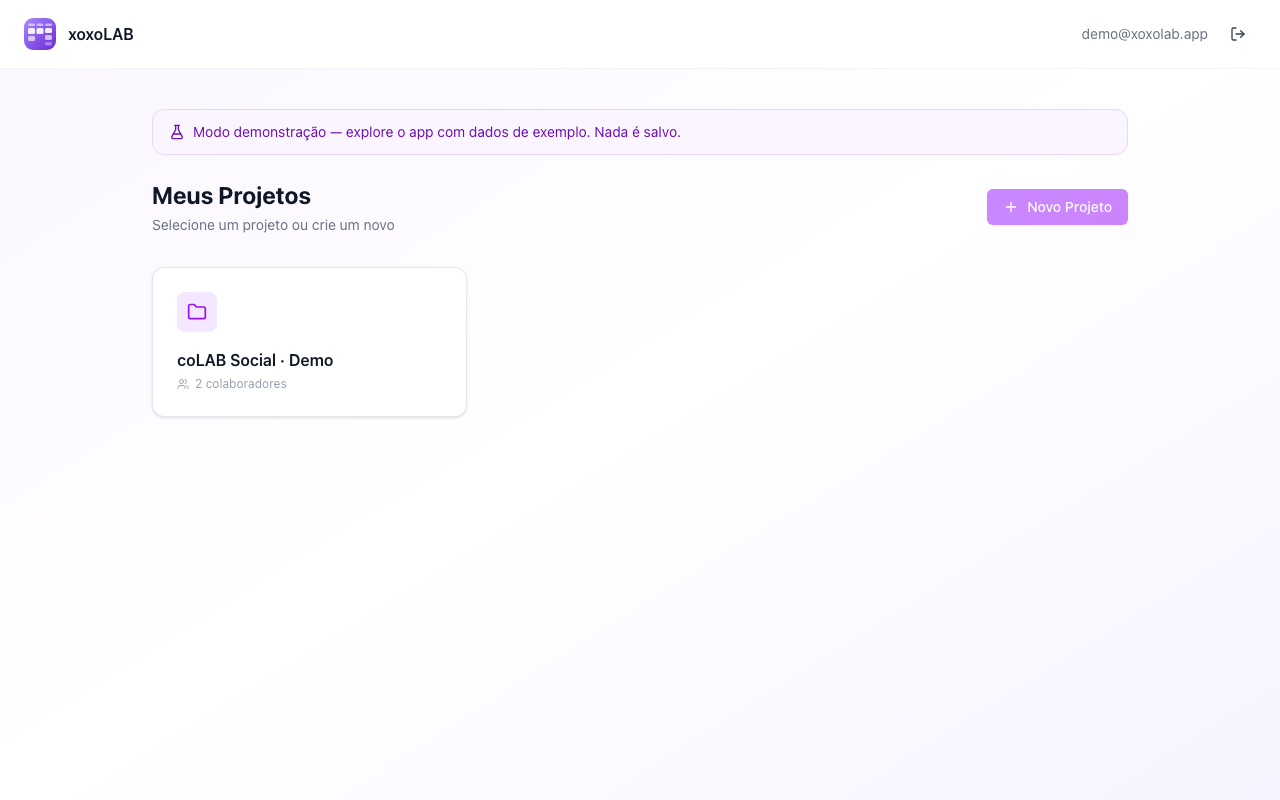
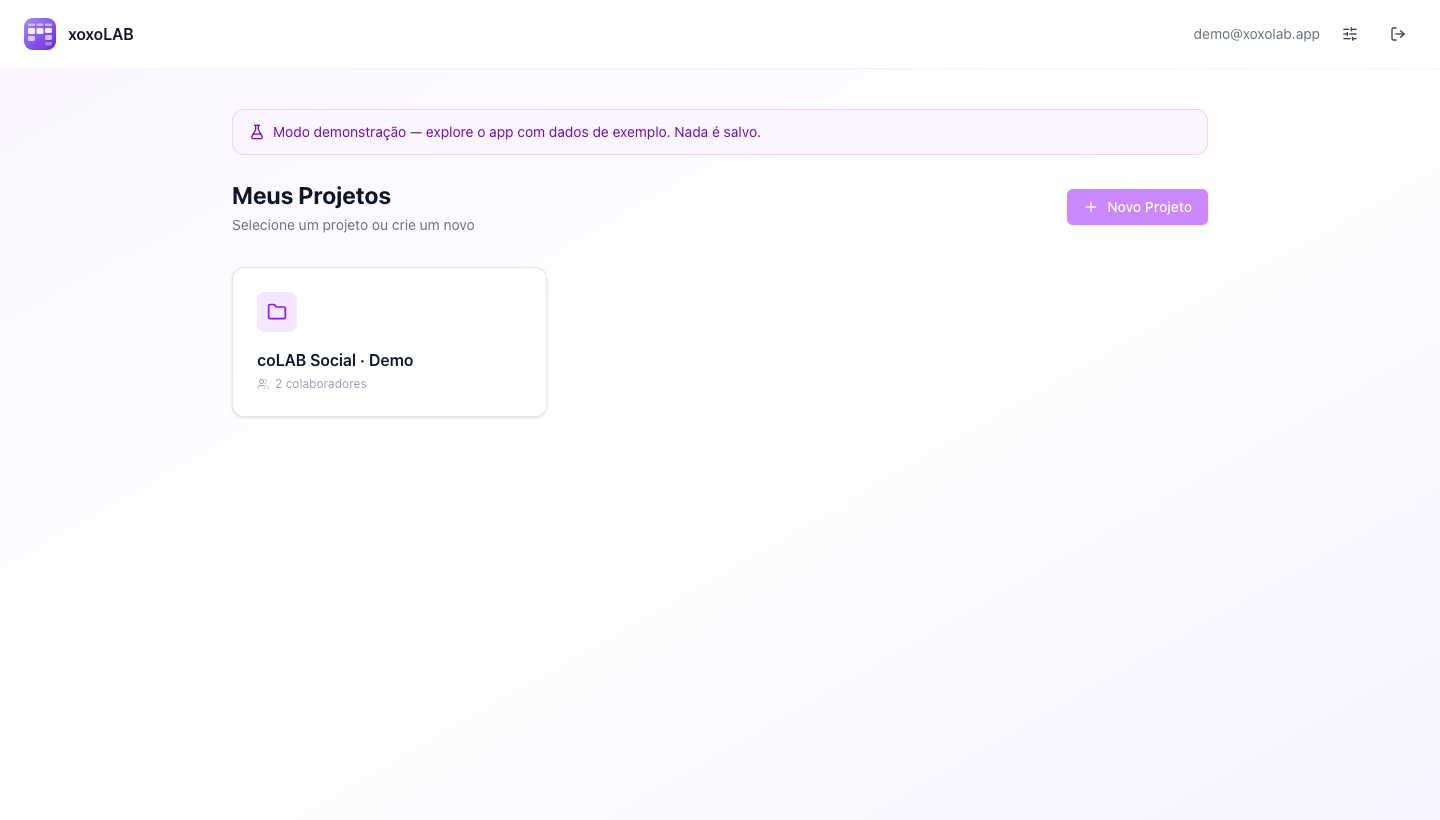
docs: update README and replace all screenshots
- Refresh all module screenshots with latest UI (demo mode)
- Add new screenshot 04-conteudos.png for the Conteúdos module
- Renumber screenshots: 04-conteudos, 05-kanban … 10-senhas
- Update README module descriptions to reflect:
  - Conteúdos: new roadmap-style table module between Pautas and Kanban
  - Pautas: now has forward-to-Conteúdos button
  - Kanban: new columns (Planejamento/Criação/Revisão/Agendamento/Publicação),
    auto-scheduling, drag-back from Publicação, media attachments, per-card download
  - Efemérides: ICS undo-import, Limpar tudo, persistent Google Calendar token
  - Recursos: authenticated download via GitHub API
  - Senhas: custom platform ("Outra…") support
- Update module count (8 → 9) in intro paragraph
- Update data structure tree to include conteudos/conteudos.yaml
- Update modules summary table

diff --git a/README.md b/README.md
@@ -2,7 +2,7 @@
 
 [![DOI](https://zenodo.org/badge/DOI/10.5281/zenodo.19305547.svg)](https://doi.org/10.5281/zenodo.19305547)
 
-O xoxoLAB é uma ferramenta web de gestão editorial colaborativa que reúne em uma única interface oito instrumentos de trabalho para equipes de comunicação e mídias sociais: quadro de avisos, pautas, kanban, efemérides, políticas, recursos, equipe e senhas, todos conectados por um sistema de @menções que notifica colaboradores em tempo real. Os dados são armazenados diretamente no repositório GitHub privado da própria equipe, sem servidor intermediário, e múltiplos projetos podem ser gerenciados simultaneamente por diferentes grupos de colaboradores, cada um com seu próprio espaço isolado de trabalho.
+O xoxoLAB é uma ferramenta web de gestão editorial colaborativa que reúne em uma única interface nove instrumentos de trabalho para equipes de comunicação e mídias sociais: quadro de avisos, pautas, conteúdos, kanban, efemérides, políticas, recursos, equipe e senhas, todos conectados por um sistema de @menções que notifica colaboradores em tempo real. Os dados são armazenados diretamente no repositório GitHub privado da própria equipe, sem servidor intermediário, e múltiplos projetos podem ser gerenciados simultaneamente por diferentes grupos de colaboradores, cada um com seu próprio espaço isolado de trabalho.
 
 <img src="screenshots/ombudsman-logo.png" alt="Desenvolvido por Viktor Chagas" align="right" width="100">O software foi desenvolvido por [Viktor Chagas](https://scholar.google.com/citations?user=F02DKoAAAAAJ&hl=en) e pelo [coLAB/UFF](http://colab-uff.github.io), com auxílio do Claude Code Sonnet 4.6 para as tarefas de programação. Os autores agradecem a Rafael Cardoso Sampaio pelos comentários e sugestões de adoção de ferramentas de IA, que levaram ao planejamento inicial da aplicação.
 
@@ -20,14 +20,14 @@ Toda a persistência de dados ocorre diretamente em um repositório GitHub priva
 
 ### 1. Gestão de Projetos
 
-O xoxoLAB permite gerenciar várias contas e projetos simultaneamente. Assim, equipes de produção de conteúdo para as mídias sociais podem gerenciar várias páginas e perfis em um único ambiente. Ao efetuar o login no software, é preciso indicar um email, que funcionará como nome de usuário. As equipes podem atribuir tarefas e notificar usuários por meio de um sistema de menções (@).
+O xoxoLAB permite gerenciar várias contas e projetos simultaneamente. Assim, equipes de produção de conteúdo para as mídias sociais podem gerenciar várias páginas e perfis em um único ambiente. Ao efetuar o login no software, é preciso indicar um email, que funcionará como nome de usuário. As equipes podem atribuir tarefas e notificar usuários por meio de um sistema de menções (@). Disponível também em **modo demonstração**, sem necessidade de conta GitHub.
 
 ![Login](screenshots/00-login.png)
 
 #### Como usar
 
 1. Acesse a aplicação
-2. Informe seu **email** e as demais credenciais de acesso
+2. Informe seu **email** e as demais credenciais de acesso (ou use o Modo demonstração)
 3. Crie ou acesse um projeto e convide colaboradores pelos seus emails
 
 Os dados ficam inteiramente no seu repositório GitHub privado.
@@ -49,7 +49,7 @@ Um quadro de recados colaborativo organizado como uma Matriz Eisenhower, para pr
 
 ### 3. Pautas
 
-Listas organizada por seções temáticas, com suporte a drag-and-drop. Utilize para definir ideias para pautas a serem elaboradas.
+Lista de ideias editoriais organizada por seções temáticas, com suporte a drag-and-drop. Cada pauta pode ser encaminhada diretamente para o módulo Conteúdos com um clique.
 
 ![Pautas](screenshots/03-pautas.png)
 
@@ -57,45 +57,62 @@ Listas organizada por seções temáticas, com suporte a drag-and-drop. Utilize 
 - Itens com título, corpo em Markdown, tags coloridas, data, responsável e @menções
 - Reordenação de itens por DnD dentro e entre seções
 - Quick-add por Enter direto na lista
-- Sincronização com Kanban: itens de Pauta aparecem automaticamente na coluna "Pautas" do Kanban
+- Botão **"Encaminhar para Conteúdos"** (ícone →) em cada item envia a pauta ao módulo Conteúdos
 - **Export**: PDF, Excel, CSV, Markdown
 
 
-### 4. Kanban
+### 4. Conteúdos
 
-Quadro de gestão de conteúdo por etapas com timeline visual. O Kanban de xoxoLAB possui 6 colunas (Pautas, Em Construção, Em Revisão, Aguardando Aprovação, Divulgação, e Finalizadas), sendo duas colunas ocultas por padrão (Pautas e Finalizadas). O módulo sincroniza automaticamente com as ideias inseridas no módulo de Lista de Pautas e com as datas inseridas no módulo Efemérides. Uma Linha do Tempo permite visualizar de forma abrangente os prazos e efemérides próximos.
+Visão geral de todos os conteúdos em produção, no formato de tabela estilo roadmap/bug tracker. Recebe pautas encaminhadas do módulo Pautas e envia itens concluídos automaticamente para o Kanban.
 
-![Kanban](screenshots/04-kanban.png)
+![Conteúdos](screenshots/04-conteudos.png)
 
-- **6 colunas**: Pautas · Em Construção · Em Revisão · Aguardando Aprovação · Divulgação · Finalizadas
-- Colunas "Pautas" e "Finalizadas" retráteis; demais sempre visíveis
-- Cards com: título, descrição Markdown, prioridade, plataformas de publicação, responsável, prazo, imagens/vídeos
-- Contorno `border-l-4` colorido pela plataforma primária do card
+- **Tabela editável inline** com as colunas: Descrição, Atribuição, Prazo, Tipo, Importância, Dependência, Progresso, Criado em
+- **Atribuição e Dependência**: seletor com autocompletar por @, exibe avatar colorido + nome do colaborador; dispara notificação por e-mail ao usuário marcado
+- **Tipos customizáveis**: o usuário define sua própria lista de tipos de conteúdo (Artigo, Resenha etc.) via "Gerenciar Tipos"
+- **Importância**: pílulas Urgente · Alta · Média · Baixa
+- **Progresso**: seletor cíclico clicável — Aguardando na Fila → Em Produção → Em Revisão → Aguardando Aprovação → Atrasado → Pronto
+- Ao marcar como **Pronto**, o item migra automaticamente para o Kanban (coluna Planejamento) e vai ao final da lista (ocultável); reverter o status remove o card do Kanban
+- Ordenação por qualquer coluna; padrão por data de criação
+
+
+### 5. Kanban
+
+Quadro de gestão de conteúdo por etapas com timeline visual. Recebe cards do módulo Conteúdos e organiza o fluxo editorial em cinco colunas. Sincroniza com Efemérides para exibir datas relevantes na linha do tempo.
+
+![Kanban](screenshots/05-kanban.png)
+
+- **5 colunas**: Planejamento · Criação · Revisão/Aprovação · Agendamento · Publicação (oculta por padrão)
+- Cards com: título, descrição Markdown, plataformas de publicação, responsável, revisor, previsão de publicação e data de agendamento
+- **Pendências automáticas**: pílula PENDENTE em Agendamento sem data; pílula PENDENTE em Revisão/Aprovação sem revisor
+- **Agendamento automático**: quando a data de agendamento é atingida, o card migra para Publicação; arrastar de Publicação de volta apaga a data de agendamento
+- Cards com imagens/vídeos anexados via drag-and-drop ou botão de upload; thumbnails exibidos no card e na interface de edição
 - Log de auditoria por card (ações timestampadas: criação, movimentação, atribuição, edição)
-- Botão de compartilhamento direto nas plataformas configuradas
-- **Timeline** acima do quadro: chips coloridos por plataforma, sincronizada com a largura do board, zoom in/out
-- **Export**: PDF da timeline (retrato), PNG/PDF/Excel/CSV/Markdown do board
+- **Download individual de card**: Markdown, DOCX ou ZIP (inclui mídia anexada); exporta apenas título e texto
+- **Timeline** acima do quadro: chips coloridos por plataforma, zoom in/out, sincronizada com a largura do board
+- **Export**: PNG/PDF/Excel/CSV/Markdown do board
 
 
-### 5. Efemérides
+### 6. Efemérides
 
-Calendário de eventos importantes, datas comemorativas e lembretes. O módulo pode importar eventos por meio de arquivos ICS (Google Calendar, Apple Calendar) ou sincronizar diretamente com a agenda online do Google Calendar.
+Calendário de eventos importantes, datas comemorativas e lembretes. Importa arquivos ICS ou sincroniza diretamente com o Google Calendar.
 
-![Efemérides](screenshots/05-efemerides.png)
+![Efemérides](screenshots/06-efemerides.png)
 
 - Grid mensal React puro (sem biblioteca de calendário externa), navegação por meses
 - Eventos manuais com recorrência: anual, mensal, semanal, sem recorrência
-- **Eventos sintéticos** (faded, não editáveis): itens de Pautas com prazo e cards de Kanban com prazo aparecem automaticamente no calendário
+- **Eventos sintéticos** (faded, não editáveis): cards de Kanban com prazo aparecem automaticamente no calendário
 - Lembretes automáticos por e-mail (EmailJS) com 7 e 1 dia de antecedência
-- **Import**: arquivos `.ics` (Google Calendar, Apple Calendar etc.)
+- **Import ICS**: importação em lote com deduplicação automática e desfazer por lote; "Limpar tudo" com confirmação
+- **Google Calendar**: conexão via OAuth 2.0, token persistido em localStorage com renovação silenciosa
 - **Export**: `.ics`, Markdown
 
 
-### 6. Políticas
+### 7. Políticas
 
 Wiki editorial da equipe com documentos de políticas de gestão de conteúdos, manual de redação, entre outros.
 
-![Políticas](screenshots/06-politicas.png)
+![Políticas](screenshots/07-politicas.png)
 
 - Lista de documentos com título e corpo em Markdown (editor com preview)
 - Criação, edição e exclusão de políticas
@@ -103,36 +120,37 @@ Wiki editorial da equipe com documentos de políticas de gestão de conteúdos, 
 - **Exportar Tudo**: gera PDF, DOCX ou Markdown com todos os documentos concatenados
 
 
-### 7. Recursos
+### 8. Recursos
 
 Central de links úteis, documentação e arquivos de template. Armazene aqui logomarcas, arquivos vetoriais de ilustrações, e mais.
 
-![Recursos](screenshots/07-recursos.png)
+![Recursos](screenshots/08-recursos.png)
 
 - **Aba Links**: lista de recursos externos com título, URL, descrição e categoria; auto-fetch do título da página
-- **Aba Templates**: upload de arquivos para o repositório GitHub (`recursos/templates/`); download direto; aviso para arquivos >50MB
+- **Aba Templates**: upload de arquivos para o repositório GitHub (`recursos/templates/`); download autenticado via GitHub API; aviso para arquivos >50MB
 - Ordenação e organização por categorias
 
 
-### 8. Equipe
+### 9. Equipe
 
-Visão consolidada das atribuições e menções por colaborador.
+Visão consolidada das atribuições e menções por colaborador. Exibe também tarefas atribuídas via Conteúdos.
 
-![Equipe](screenshots/08-equipe.png)
+![Equipe](screenshots/09-equipe.png)
 
 - Lista todos os membros do projeto (cadastrados no `meta.yaml`)
-- Para cada membro: avatar com iniciais, lista de @menções em Avisos/Pautas/Kanban/Políticas e atribuições no Kanban
+- Para cada membro: avatar com iniciais colorido, lista de @menções em Avisos/Pautas/Kanban/Políticas, atribuições no Kanban e dependências em Conteúdos
 - Calculado em runtime via `useMemo` (sem storage próprio)
 
 
-### 9. Senhas
+### 10. Senhas
 
 Cofre de credenciais armazenadas no repositório GitHub privado.
 
-![Senhas](screenshots/09-senhas.png)
+![Senhas](screenshots/10-senhas.png)
 
 - Tabela com linhas expansíveis (serviço pai + múltiplas contas filho)
 - Colunas: plataforma, serviço, URL, login, senha (oculta por padrão com toggle), notas
+- Suporte a plataformas customizadas ("Outra…") com campo de texto livre
 - Adição e edição inline ou via dialog
 - Armazenado em `senhas/senhas.yaml` no repositório privado da equipe
 - **Sem exportação** (por segurança)
@@ -149,6 +167,7 @@ projects/
     meta.yaml               # name, createdBy, users: [email...]
     avisos/{card-id}.yaml
     pautas/pautas.yaml      # { sections, items, tags }
+    conteudos/conteudos.yaml # { items, types }
     kanban/{card-id}.yaml
     efemerides/eventos.yaml
     politicas/{policy-id}.yaml
@@ -299,12 +318,13 @@ A integração é opcional e requer um Client ID OAuth do Google Cloud. Siga os 
 | Módulo | Descrição |
 |---|---|
 | **Quadro de Avisos** | Matriz Eisenhower para priorização de avisos por iminência e empenho |
-| **Pautas** | Lista de pautas por seções com DnD, tags e datas |
-| **Kanban** | Quadro de conteúdo com timeline, plataformas e log de auditoria |
-| **Efemérides** | Calendário com recorrências, importação .ics e Google Calendar |
+| **Pautas** | Lista de ideias editoriais por seções com DnD, encaminhamento para Conteúdos |
+| **Conteúdos** | Tabela-roadmap de conteúdos em produção; integra Pautas → Kanban |
+| **Kanban** | Quadro editorial com 5 colunas, agendamento automático, mídia e timeline |
+| **Efemérides** | Calendário com recorrências, import ICS com undo e Google Calendar |
 | **Políticas** | Wiki editorial com exportação em PDF, DOCX e Markdown |
 | **Recursos** | Links úteis, documentação e templates de arquivos |
-| **Equipe** | Visão consolidada de atribuições por colaborador |
+| **Equipe** | Visão consolidada de atribuições e menções por colaborador |
 | **Senhas** | Cofre de credenciais armazenadas no repositório privado |
 
 ---
